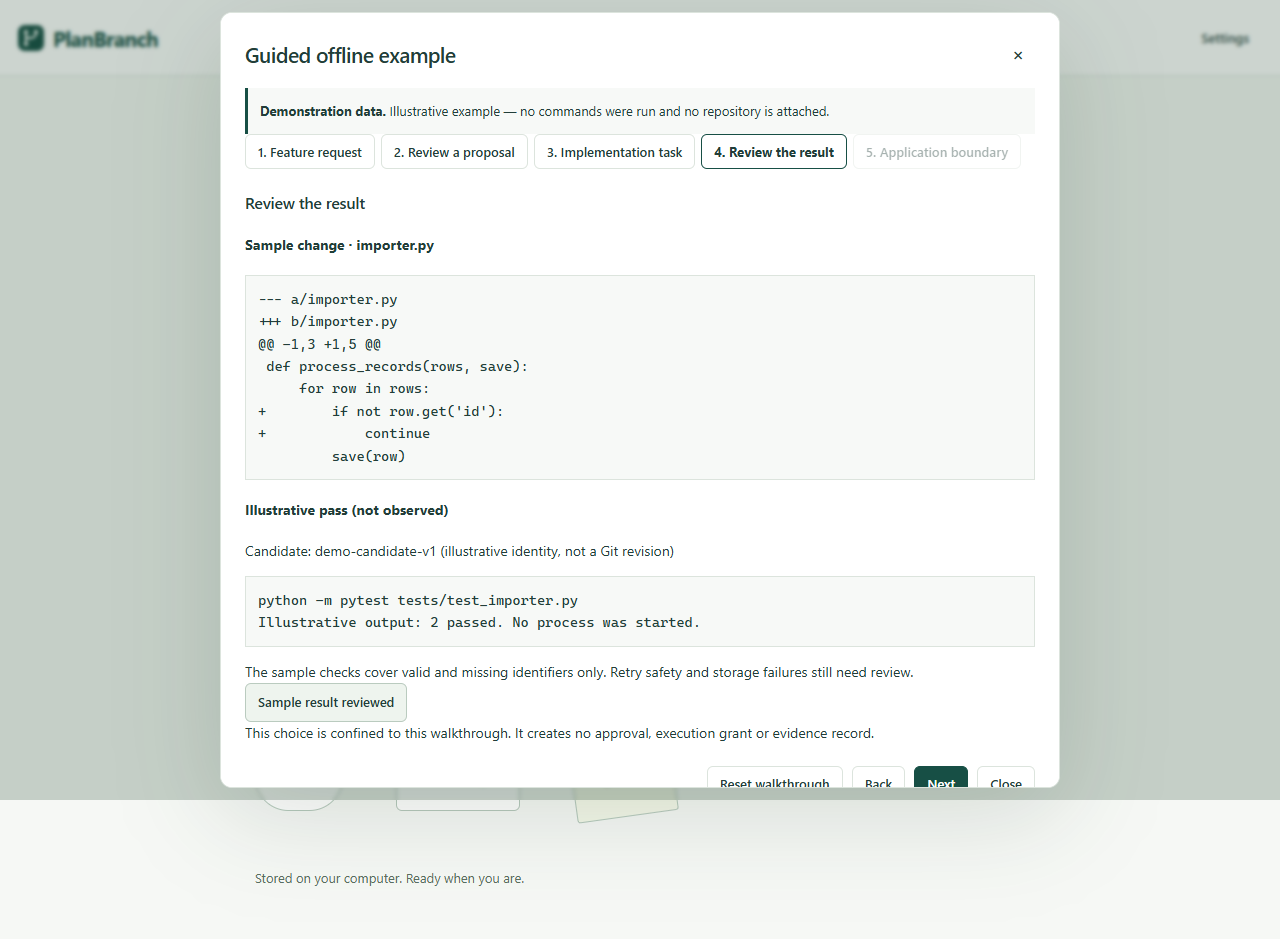
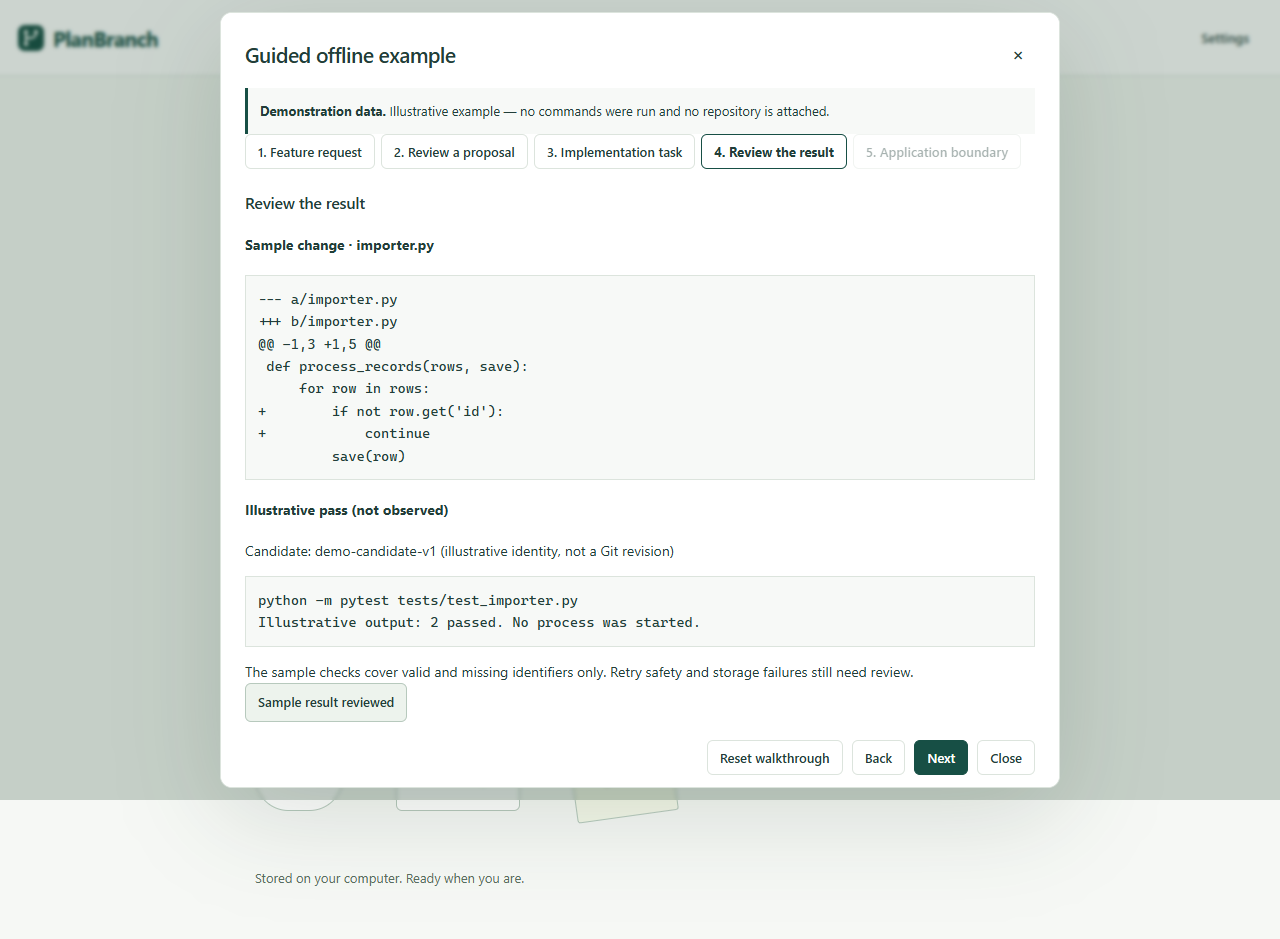
Preserve legacy Apply recovery and certify migration compatibility

Changed region(s): [[0.1875, 0.7721, 0.8125, 0.8647]]

diff --git a/frontend/src/ExecutionDialog.test.tsx b/frontend/src/ExecutionDialog.test.tsx
@@ -716,47 +716,54 @@ describe("uncertain execution recovery", () => {
       confirm.mockRestore();
     },
   );
-  it("recovers Apply's server receipt after browser storage loss, with deliberate confirmation", async () => {
-    run.acceptedDigest = "result-digest";
-    run.applyState = {
-      state: "applying",
-      digest: "result-digest",
-      updatedAt: timestamp,
-      completed: [],
-      fileCount: 1,
-    };
-    run.applyRequest = {
-      mutationId: "durable-apply",
-      digest: "result-digest",
-      confirmed: true,
-    };
-    state.runs = [run];
-    write = async () => ({
-      run: {
-        ...run,
-        applied: true,
-        applyState: { ...run.applyState!, state: "applied" },
-      },
-    });
-    const confirm = vi.spyOn(window, "confirm").mockReturnValue(false);
-    await open(true);
-    expect(post).not.toHaveBeenCalled();
-    fireEvent.click(
-      screen.getByRole("button", { name: "Retry apply to checkout" }),
-    );
-    await settle();
-    expect(post).not.toHaveBeenCalled();
-    confirm.mockReturnValue(true);
-    fireEvent.click(
-      screen.getByRole("button", { name: "Retry apply to checkout" }),
-    );
-    await screen.findByRole("button", { name: "Applied to checkout" });
-    expect(post).toHaveBeenCalledExactlyOnceWith(
-      `${base}/runs/run/apply`,
-      run.applyRequest,
-    );
-    confirm.mockRestore();
-  });
+  it.each([false, true])(
+    "recovers Apply's server receipt after browser storage loss, with deliberate confirmation (legacy candidate: %s)",
+    async (legacy) => {
+      run.acceptedDigest = "result-digest";
+      if (legacy) {
+        run.candidateStale = true;
+        run.capturedCandidate = null;
+      }
+      run.applyState = {
+        state: "applying",
+        digest: "result-digest",
+        updatedAt: timestamp,
+        completed: [],
+        fileCount: 1,
+      };
+      run.applyRequest = {
+        mutationId: "durable-apply",
+        digest: "result-digest",
+        confirmed: true,
+      };
+      state.runs = [run];
+      write = async () => ({
+        run: {
+          ...run,
+          applied: true,
+          applyState: { ...run.applyState!, state: "applied" },
+        },
+      });
+      const confirm = vi.spyOn(window, "confirm").mockReturnValue(false);
+      await open(true);
+      expect(post).not.toHaveBeenCalled();
+      fireEvent.click(
+        screen.getByRole("button", { name: "Retry apply to checkout" }),
+      );
+      await settle();
+      expect(post).not.toHaveBeenCalled();
+      confirm.mockReturnValue(true);
+      fireEvent.click(
+        screen.getByRole("button", { name: "Retry apply to checkout" }),
+      );
+      await screen.findByRole("button", { name: "Applied to checkout" });
+      expect(post).toHaveBeenCalledExactlyOnceWith(
+        `${base}/runs/run/apply`,
+        run.applyRequest,
+      );
+      confirm.mockRestore();
+    },
+  );
 });
 
 describe("Build execution entry points", () => {

diff --git a/frontend/src/ExecutionDialog.tsx b/frontend/src/ExecutionDialog.tsx
@@ -991,9 +991,9 @@ export default function ExecutionDialog({
               <div className="execution-notice">
                 {run.candidateStale && (
                   <p>
-                    The candidate source changed or has not been captured.
-                    Refresh results and review the current candidate before
-                    accepting, completing, or applying it.
+                    {run.applyRequest && !run.capturedCandidate
+                      ? "This historical run has no captured candidate source. Recover its existing Apply request first; recovery uses only the originally accepted artifact."
+                      : "The candidate source changed or has not been captured. Refresh results and review the current candidate before accepting, completing, or applying it."}
                   </p>
                 )}
                 {run.sourceStale && (
@@ -1098,7 +1098,8 @@ export default function ExecutionDialog({
                     !!busy ||
                     !!receipt ||
                     !accepted ||
-                    run.candidateStale ||
+                    (run.candidateStale &&
+                      !(run.applyRequest && !run.capturedCandidate)) ||
                     run.applied ||
                     run.sourceStale ||
                     run.applyPlanStale

diff --git a/tests/test_execution_migration.py b/tests/test_execution_migration.py
@@ -41,8 +41,12 @@ def previous_store(tmp_path, monkeypatch):
 
 def raw_content(store):
     with closing(store.connect()) as db:
-        return {table: [tuple(row) for row in db.execute(f"SELECT * FROM {table} ORDER BY 1")]
-                for table in ("projects", "history_checkpoints", "save_receipts", "planning_approvals", "planning_receipts", "planning_requests")}
+        fields = {table: "*" for table in ("projects", "history_checkpoints", "save_receipts", "planning_receipts", "planning_requests")}
+        # Compare every historical field; an additive scope column is separately
+        # verified below rather than mistaken for a rewrite of the old record.
+        fields["planning_approvals"] = "id,project_id,revision,cursor,content_hash,content,created_at,revoked"
+        return {table: [tuple(row) for row in db.execute(f"SELECT {columns} FROM {table} ORDER BY 1")]
+                for table, columns in fields.items()}
 
 
 def test_execution_migration_preserves_manual_history_frozen_approval_and_receipts(tmp_path, monkeypatch):
@@ -55,6 +59,7 @@ def test_execution_migration_preserves_manual_history_frozen_approval_and_receip
     with closing(upgraded.connect()) as db:
         assert migrations.applied_versions(db) == tuple(range(1, migrations.DATABASE_VERSION + 1))
         assert db.execute("SELECT COUNT(*) FROM execution_runs").fetchone()[0] == 0
+        assert db.execute("SELECT scope_version FROM planning_approvals").fetchone()[0] == 0
     portable = portable_project(project, [])
     assert set(portable) == {"format", "version", "content", "views", "symbols"}
     assert "execution" not in json.dumps(portable)

diff --git a/docs/Product_Roadmap.md b/docs/Product_Roadmap.md
@@ -98,17 +98,34 @@ Validation record (logs under ignored `output/`):
 - Frontend: **312 passed**, `roadmap-frontend-final.log`.
 - Migration/progress regressions: **27 passed**, `roadmap-migration-fix.log`.
 - New handoff production browser round trip: **1 passed**, `roadmap-browser-handoff.log`.
-- Full backend/browser suites: running; discovered regressions are fixed and
-  rerun before the release commit is certified.
+- Local broad backend: **723 passed, 19 skipped, 4 failed** on the initial source
+  snapshot. Three legacy fixture/progress expectations were repaired before the
+  first push; the remaining version-7 comparison now checks every historical
+  column plus the new legacy scope default explicitly (**2 focused tests passed**).
+- First cross-platform CI: **755 passed / 10 skipped** on Ubuntu and **750 passed /
+  15 skipped** on Windows, each with that one version-7 comparison failure.
+- Broad production browser run: **95 passed, 3 failed**. Focused reruns passed for
+  the short-window composer fix, all 12 menu actions, and movement (whose failure
+  was caused by rebuilding shared assets during the run). The assertions were
+  retained. Additional handoff and dock checks passed. Final CI rebuilds once,
+  installs the wheel, then runs the complete browser suite.
+- Independent recovery audit: **4 authority tests, 3 Apply/resumption tests and
+  26 dialog tests passed**. Legacy pending Apply can still recover after browser
+  storage loss without authorizing new actions lacking candidate provenance.
+- Release/startup audit: **15 tests passed**, including rejection of stale wheel
+  source/UI and portable artifacts with mismatched wheel or manifest bytes.
 - The local Docker Linux daemon is unavailable. Live container checks are not
   claimed; command/runtime regressions use deterministic fixtures without model
   calls. Ordinary release CI and standalone Windows packaging remain required.
 
-Remaining release gates: clean committed source; full backend, frontend and
+Required final release gates: clean committed source; full backend, frontend and
 installed-wheel browser checks on Ubuntu and Windows; standalone Windows portable
 smoke (including spaces/Unicode paths); final artifact hashes and source receipt.
 Existing generated directories owned by the former sandbox account are left
 untouched; local packaging uses a clean archive of the final commit and the normal
 builder. The release workflow accepts only a successful same-repository push or
 dispatch check run for the exact SHA, creates its tag atomically and refuses to
-replace an existing tag or release. No public release is claimed by this record.
+replace an existing tag or release. Final gate status belongs to the exact-commit
+[PR checks](https://github.com/AdrianIp0204/PlanBranch/pull/1/checks), and the
+published artifact receipt records the SHA and successful push/dispatch run. This
+source document does not substitute earlier test results for that final receipt.
